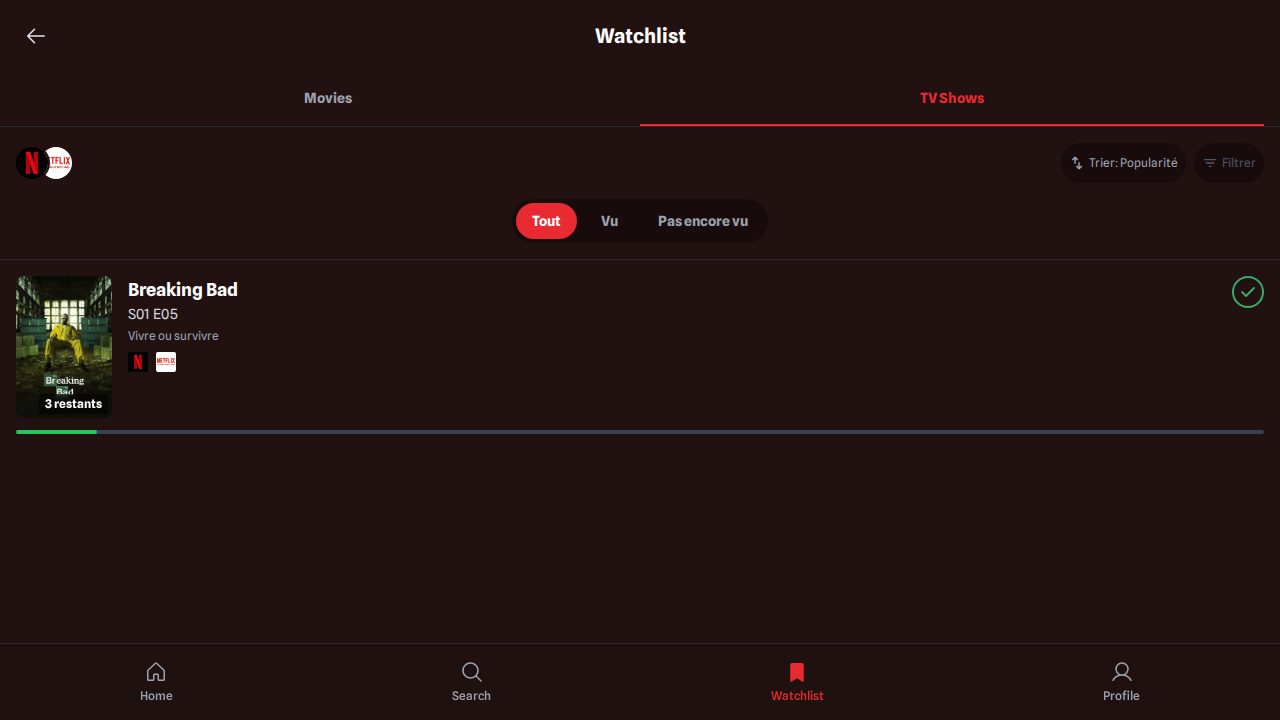
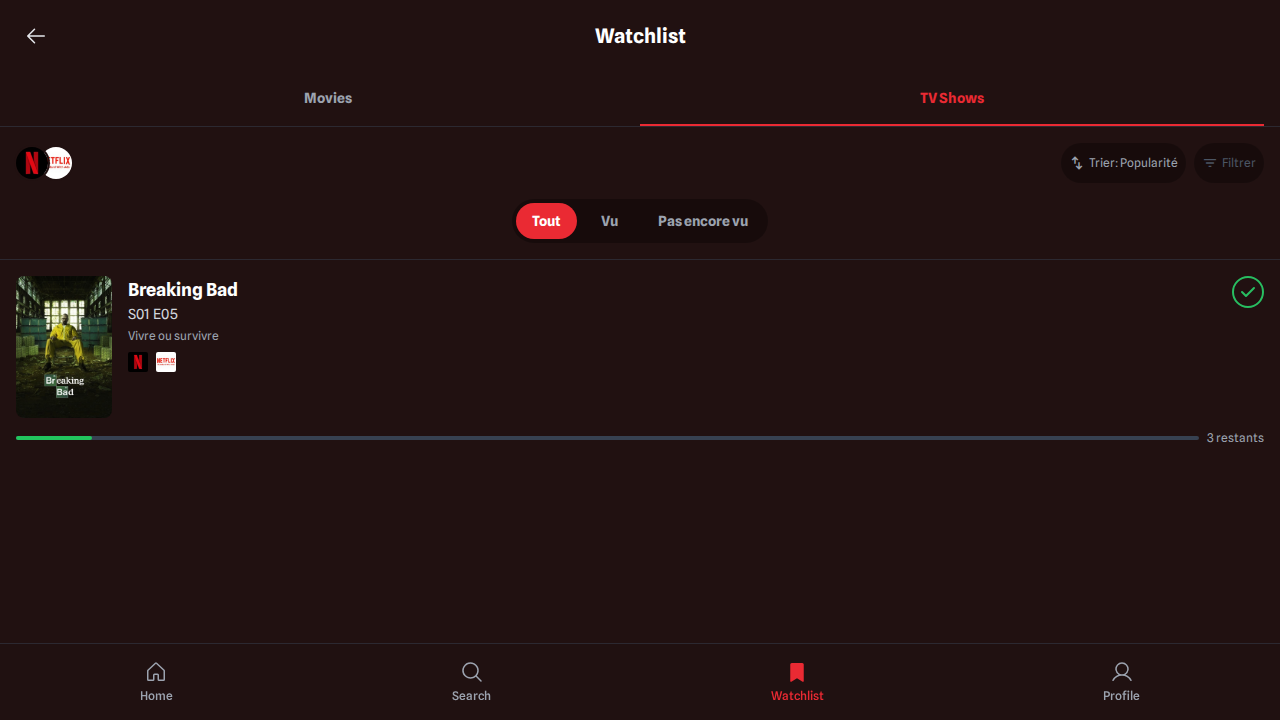
fix(watchlist): Adjust position of remaining episodes text
Based on user feedback, this commit adjusts the layout of the "in-progress" series card on the watchlist.

The "remaining episodes" text has been moved from its position over the poster to the right side of the progress bar, improving contextual clarity and aligning with the user's request.

Changed region(s): [[0.0, 0.55, 1.0, 0.6111]]

diff --git a/watchlist.js b/watchlist.js
@@ -398,7 +398,6 @@ document.addEventListener('alpine:init', () => {
                             <a href="serie.html?id=${item.id}">
                                 <img class="w-full rounded-lg" src="${item.posterUrl}" alt="${item.title}">
                             </a>
-                            <p class="absolute bottom-1 right-1 left-auto text-xs font-semibold text-white bg-black/50 px-1.5 py-0.5 rounded-sm backdrop-blur-sm">${remainingInSeason} restants</p>
                         </div>
                         <div class="flex-1">
                              <a href="serie.html?id=${item.id}">
@@ -412,8 +411,11 @@ document.addEventListener('alpine:init', () => {
                             <svg fill="currentColor" height="20" viewBox="0 0 20 20" width="20"><path d="M16.707 5.293a1 1 0 010 1.414l-8 8a1 1 0 01-1.414 0l-4-4a1 1 0 011.414-1.414L8 12.586l7.293-7.293a1 1 0 011.414 0z"></path></svg>
                         </button>
                     </div>
-                    <div class="mt-3 h-1 w-full rounded-full bg-gray-700">
-                        <div class="h-1 rounded-full bg-green-500" style="width: ${totalProgress}%"></div>
+                    <div class="mt-3 flex items-center gap-2">
+                        <div class="h-1 flex-1 rounded-full bg-gray-700">
+                            <div class="h-1 rounded-full bg-green-500" style="width: ${totalProgress}%"></div>
+                        </div>
+                        <p class="text-xs text-gray-400">${remainingInSeason} restants</p>
                     </div>
                 </div>`;
         },
